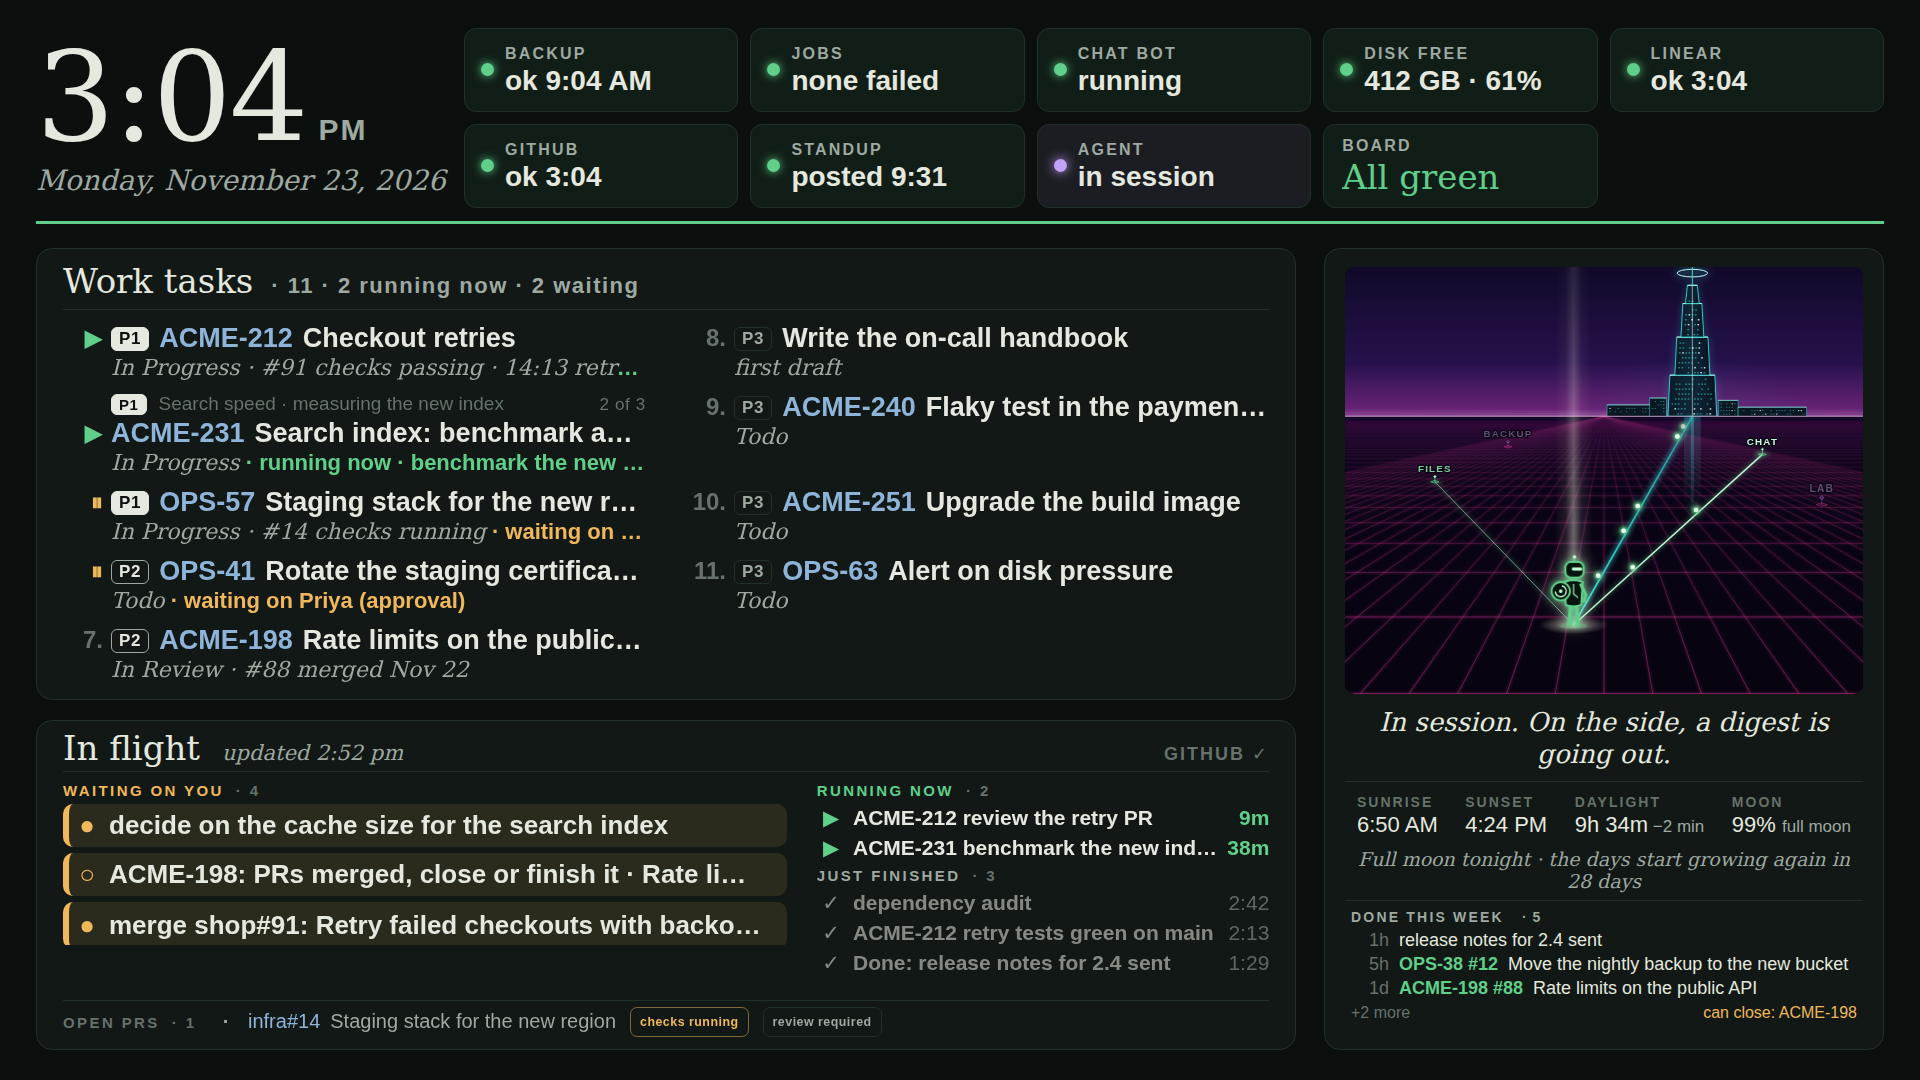
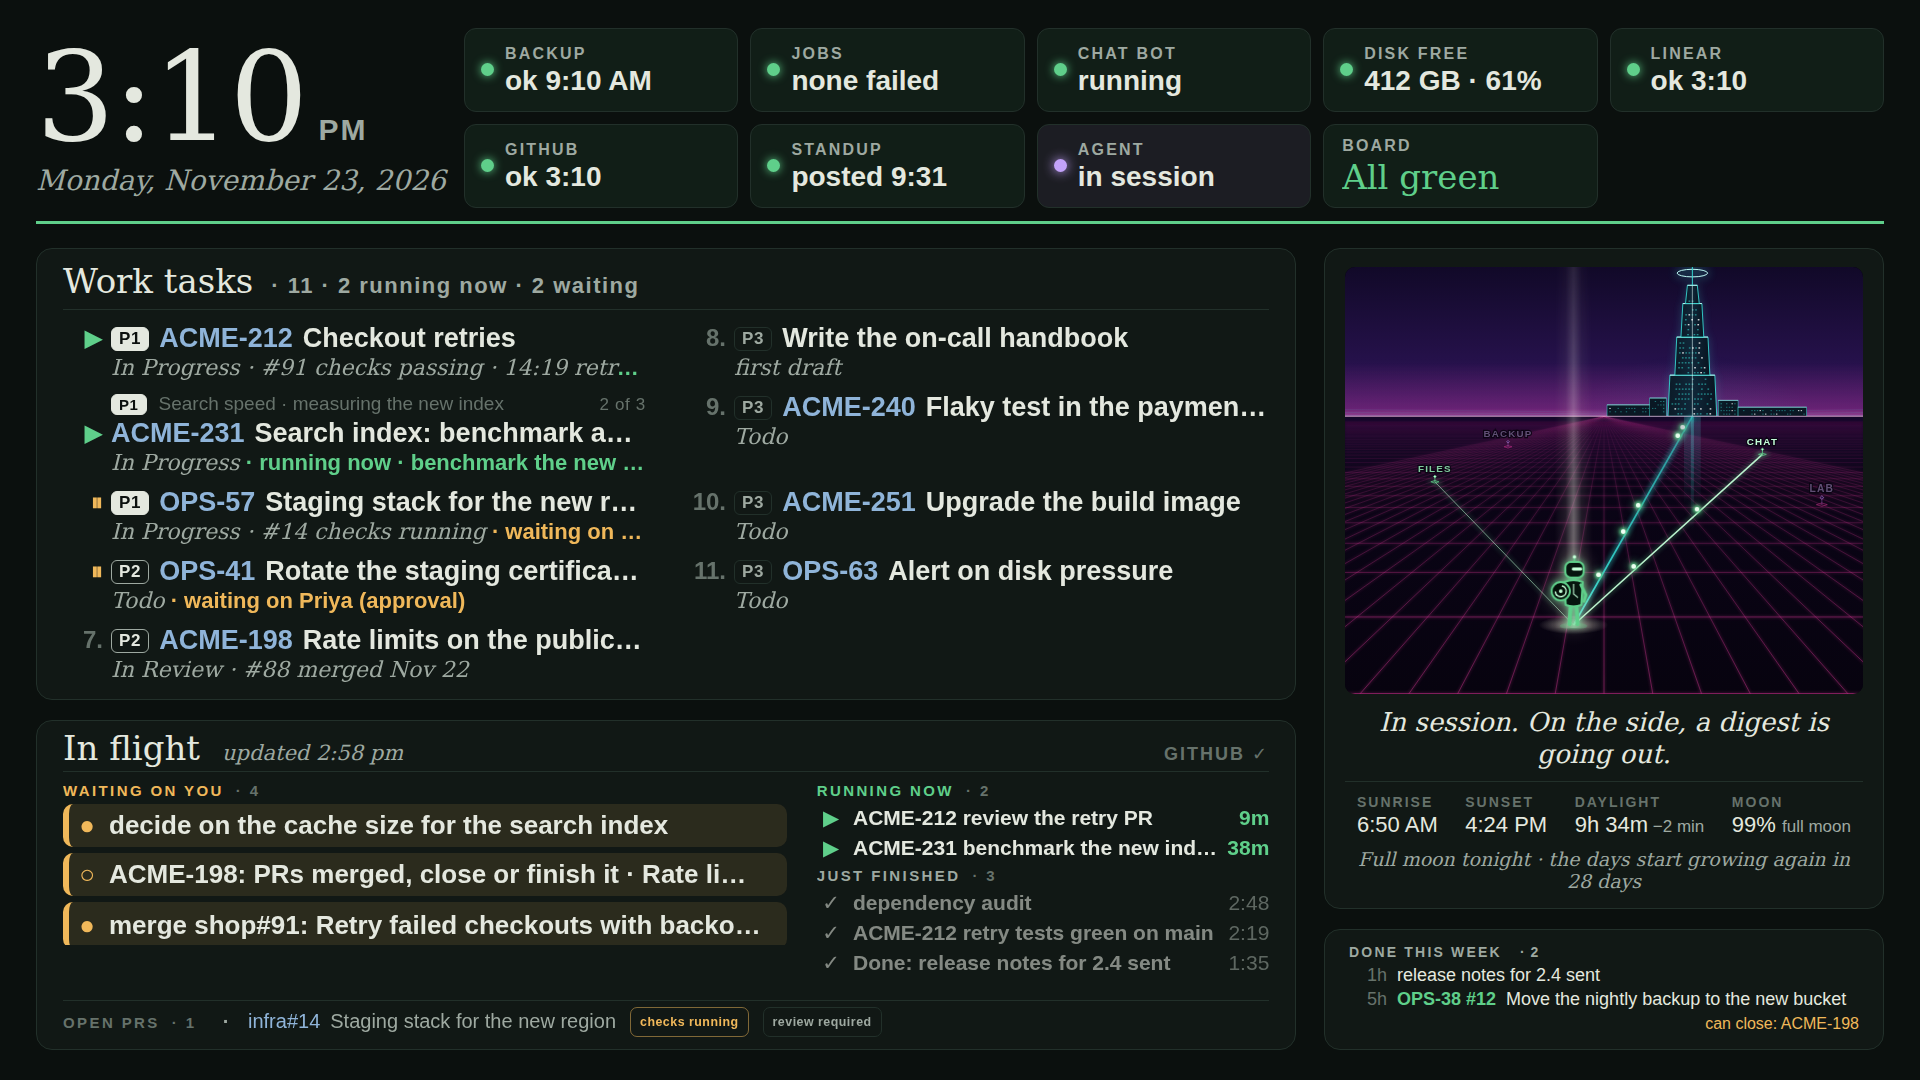
Done this week: count from Monday, leave out answered questions, its own panel
Ports the source board's latest change: the week starts Monday 00:00 in the
configured timezone, a "Done:" line ending in a question mark is not work, and
the box is its own panel under the scene. Screenshot retaken.

Claude-Session: https://claude.ai/code/session_01RGzi5zBLgm2iFxeqdaRhxT

diff --git a/web/index.html b/web/index.html
@@ -70,6 +70,9 @@
           <div id="taskview" class="tview"><ol id="tasklist" class="tasklist"></ol></div>
         </section>
 
+        <!-- the right column: the workshop, and in work hours the Done this week panel under it. Outside work hours
+             this wrapper is display: contents, so the workshop is laid out alone -->
+        <div id="shopcol" class="shopcol">
         <aside id="workshop" class="panel">
           <!-- the scene: the assistant's grid, drawn by grid.js from /api/status (settings `scene`) -->
           <div id="grid" role="img" aria-label="The assistant on the grid" hidden></div>
@@ -91,18 +94,19 @@
             </div>
           </div>
           <div id="skynote" class="skynote"></div>
-          <!-- Done this week (done.py, /api/done): in work hours the caption and the daylight facts sit right under the
-               scene and this box holds the space freed below them; not shown outside work hours.
-               Rows that do not fit are counted in "+N more", never dropped silently. -->
-          <div id="shopspare" class="shopspare">
-            <div class="donehead">
-              <span class="donetitle">Done this week</span><span id="donecount" class="donecount"></span>
-              <span id="donenote" class="donenote"></span>
-            </div>
-            <ol id="donelist" class="donelist"></ol>
-            <div id="donefoot" class="donefoot"></div>
-          </div>
         </aside>
+        <!-- Done this week (done.py, /api/done): in work hours its own panel under the workshop, taking the rest of
+             the column; not shown outside work hours. Rows that do not fit are counted in "+N more", never dropped
+             silently. -->
+        <div id="shopspare" class="shopspare panel">
+          <div class="donehead">
+            <span class="donetitle">Done this week</span><span id="donecount" class="donecount"></span>
+            <span id="donenote" class="donenote"></span>
+          </div>
+          <ol id="donelist" class="donelist"></ol>
+          <div id="donefoot" class="donefoot"></div>
+        </div>
+        </div>
       </main>
     </div>
     <script src="/static/grid.js"></script>

diff --git a/web/screen.css b/web/screen.css
@@ -268,6 +268,10 @@ body {
 #workshop {
   grid-area: shop;
 }
+/* the right column's wrapper: outside work hours it is not a box at all, so the workshop takes "shop" alone */
+.shopcol {
+  display: contents;
+}
 #taskpanel {
   grid-area: tasks;
 }
@@ -298,8 +302,16 @@ body.work .skynote {
 /* work hours: the caption and the daylight facts move up right under the scene; the space freed
    below them is #shopspare, the Done this week box (done.py). Outside work hours the workshop is unchanged (the
    caption takes the middle, the facts sit at the bottom, no box). */
+body.work .shopcol {
+  grid-area: shop;
+  display: flex;
+  flex-direction: column;
+  gap: 20px;
+  min-height: 0;
+}
 body.work #workshop {
-  grid-template-rows: auto auto auto auto minmax(0, 1fr);
+  flex: none;
+  grid-template-rows: auto auto auto auto;
 }
 body.work .caption {
   min-height: 0;
@@ -314,11 +326,10 @@ body.work .skyfacts {
 body.work .shopspare {
   display: flex;
   flex-direction: column;
+  flex: 1 1 0;
   min-height: 0;
   overflow: hidden;
-  margin-top: 8px;
-  padding: 8px 6px 0;
-  border-top: 1px solid var(--line);
+  padding: 14px 24px 12px;
 }
 .donehead {
   flex: none;

diff --git a/web/screen.js b/web/screen.js
@@ -1016,4 +1016,11 @@
   setInterval(function () {
     if (lastDone) renderDone(lastDone);
   }, 5000);
+  // and at once when the Done panel changes size (it takes what the workshop above leaves, which changes with the
+  // scene or the caption); its size does not depend on its rows, so no loop
+  if (window.ResizeObserver) {
+    new ResizeObserver(function () {
+      if (lastDone) renderDone(lastDone);
+    }).observe($("shopspare"));
+  }
 })();

diff --git a/done.py b/done.py
@@ -1,4 +1,5 @@
-"""The "Done this week" box: what was finished in the last 7 days, under the scene in work hours (#shopspare).
+"""The "Done this week" box: what was finished since Monday 00:00 (configured timezone), its own panel under the
+scene in work hours (#shopspare).
 
 Work hours only, the
 task list's own rule (`tasks.shown()`, on the server clock); outside them `/api/done` is `show: false` and nothing
@@ -41,6 +42,24 @@ import tasks
 
 TZ = tasks.TZ
 WINDOW_S = 7 * 86400
+
+
+# "This week" means since Monday 00:00 in the configured timezone, not a rolling 7 days (on a Monday morning a rolling
+# week reads as a huge count). The sources are still fetched for 7 days; the box cuts at the start of the week.
+def week_start(now):
+    """Monday 00:00 (configured timezone) of the week holding `now` (a datetime or epoch seconds), as an aware
+    datetime."""
+    if not isinstance(now, datetime):
+        now = datetime.fromtimestamp(now, tz=timezone.utc)
+    local = now.astimezone(TZ)
+    return (local - timedelta(days=local.weekday())).replace(hour=0, minute=0, second=0, microsecond=0)
+
+
+def is_question(text):
+    """A finished W line that was a question to you ("...?") is an answer you gave, not work done."""
+    return "?" in (text or "")
+
+
 SHOW = 6                         # the newest items sent; the page shows as many as fit and says "+N more"
 TITLE_MAX = 80
 OVERLAP = 0.6
@@ -187,7 +206,7 @@ def notes_done(lines, now):
     """Notes lines -> [{"ts", "text", "ids"}]: every "F. HH:MM Done: ..." line of every IN FLIGHT block whose header
     is within the last 7 days (and not in the future), once per (time, text). Never raises on odd input."""
     out, seen = [], set()
-    start = now - timedelta(seconds=WINDOW_S)
+    start = week_start(now)
     at = None
     for line in lines or ():
         m = inflight._HEADER.match(line)
@@ -209,7 +228,7 @@ def notes_done(lines, now):
             continue
         raw = _DONE.sub("", rest, count=1)
         text = inflight.clean(raw, 500)
-        if not text:
+        if not text or is_question(text):
             continue
         key = (int(t.timestamp()), text)
         if key in seen:
@@ -374,7 +393,7 @@ class Source:
         with self._lock:
             now = self.now()
             now_ts = int(now.timestamp())
-            start = now_ts - WINDOW_S
+            start = week_start(now_ts).timestamp()
             notes_out = []
             # Linear: completed issues of every workspace that answered with its "done" field
             tickets, lin = [], None

diff --git a/tests/test_done.py b/tests/test_done.py
@@ -82,14 +82,16 @@ class Merged(unittest.TestCase):
 
 NOTES = """- 2026-11-14 10:00 IN FLIGHT (current):
   F. 09:00 Done: ACME-1: too old, outside the 7 days
-- 2026-11-20 12:00 IN FLIGHT (current):
+- 2026-11-22 10:00 IN FLIGHT (current):
+  F. 09:30 Done: ACME-2: last Sunday, before this week's Monday
+- 2026-11-23 12:00 IN FLIGHT (current):
   W. ACME-9: a waiting line
   F. 11:30 Done: OPS-567: say Done (fix merged, check green)
   F. 11:31 OPS-567: marked Done
   F. 11:40 Done: Essence site: pick a design direction (A, B or C)
 not indented: the block ends
   F. 11:50 Done: never read, outside a block
-- 2026-11-20 12:10 IN FLIGHT (current):
+- 2026-11-23 12:10 IN FLIGHT (current):
   F. 11:30 Done: OPS-567: say Done (fix merged, check green)
   F. 12:05 Done: Essence site: pick the design direction A or B or C
   F. 12:06 Done: see https://evil.example/x `rm -rf` \x1b[31m
@@ -99,11 +101,13 @@ not indented: the block ends
 
 
 class NotesDone(unittest.TestCase):
-    def test_done_lines_of_the_last_7_days_once_each(self):
+    def test_done_lines_of_this_week_once_each(self):
         got = done.notes_done(NOTES.split("\n"), NOW)
         texts = [g["text"] for g in got]
         self.assertEqual(len([t for t in texts if t.startswith("OPS-567: say Done")]), 1)
         self.assertNotIn("ACME-1: too old, outside the 7 days", texts)
+        self.assertNotIn("ACME-2: last Sunday, before this week's Monday", texts)      # the week starts Monday
+        self.assertFalse(any(t.startswith("ACME-5171: draft") for t in texts))          # an answered question
         self.assertFalse(any("marked Done" in t for t in texts))       # only "Done:" lines
         self.assertFalse(any("never read" in t for t in texts))
         self.assertFalse(any("waiting line" in t for t in texts))
@@ -111,7 +115,7 @@ class NotesDone(unittest.TestCase):
         self.assertNotIn("http", bad)
         self.assertNotIn("`", bad)
         self.assertNotIn("\x1b", bad)
-        self.assertEqual(got[-1]["ids"], ["ACME-5171"])
+        self.assertEqual([g["ids"] for g in got if g["text"].startswith("OPS-567")], [["OPS-567"]])
 
     def test_odd_input_never_raises(self):
         self.assertEqual(done.notes_done(None, NOW), [])

diff --git a/README.md b/README.md
@@ -68,7 +68,7 @@ A PR's check verdict uses the newest run of each check only (keyed by workflow +
 
 ### The right panel
 
-**The grid**: the assistant as a small green figure on a neon floor, a far tower on the horizon. The line to the tower lights while a session is on; a node per configured job (`[scene] nodes`) lights a trace while its systemd unit runs, glows after it ran, and turns red when it failed. Under it a one-line caption and, with `[sky] enabled`, the day's sunrise, sunset, daylight and moon (computed locally). In work hours the space below holds **Done this week**: the real 7-day count of merged PRs, Linear issues completed and "Done:" lines, duplicates merged, the newest rows that fit with "+N more", and "can close" from the automatic waiting rule.
+**The grid**: the assistant as a small green figure on a neon floor, a far tower on the horizon. The line to the tower lights while a session is on; a node per configured job (`[scene] nodes`) lights a trace while its systemd unit runs, glows after it ran, and turns red when it failed. Under it a one-line caption and, with `[sky] enabled`, the day's sunrise, sunset, daylight and moon (computed locally). In work hours a panel below it holds **Done this week**: the real count since Monday 00:00 of merged PRs, Linear issues completed and "Done:" lines (a "Done:" line that is a question, ending in "?", is an answer, not work, and is left out), duplicates merged, the newest rows that fit with "+N more", and "can close" from the automatic waiting rule.
 
 ### Fit and motion
 
